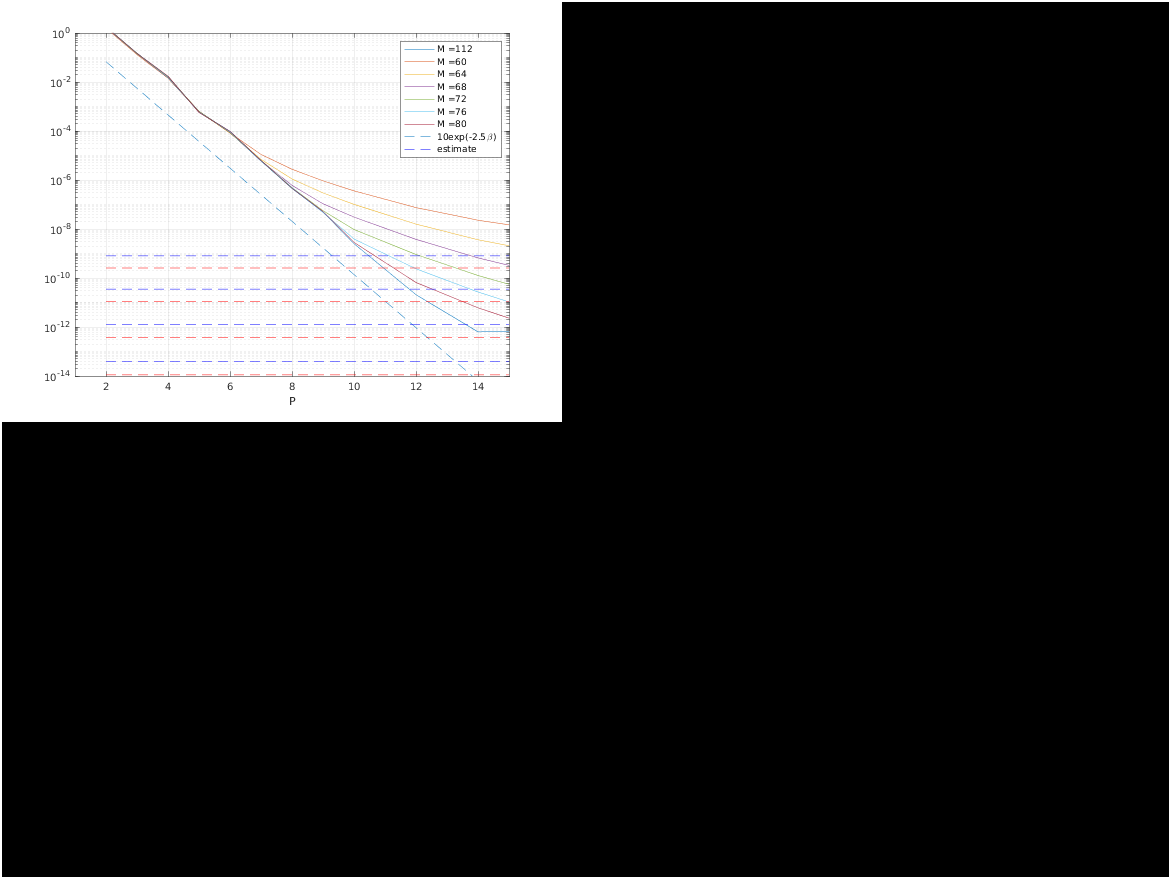
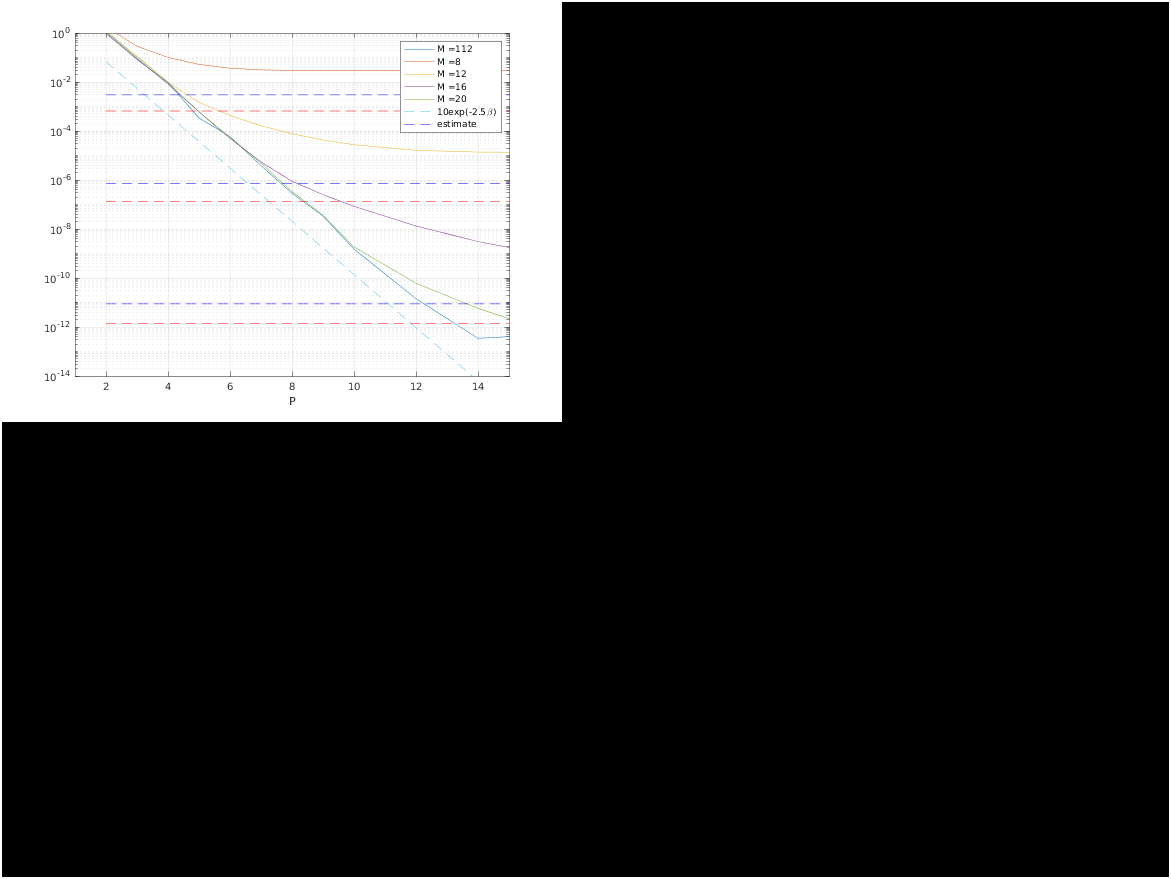
imgs

diff --git a/SE_Stokes_run/SE3P_Stokes/P_error.m b/SE_Stokes_run/SE3P_Stokes/P_error.m
@@ -17,7 +17,7 @@ opt.box = box;
 
 M0 = 128; % Set M0=M/L, the restu * 1+ is automatic
 opt.M = M0*[1,1,1];
-opt.xi = 20;
+opt.xi = 5;
 opt.betaP = 2.5;
 opt.c = sqrt(0.91);
 %opt.window = 'kaiser_exact';
@@ -45,7 +45,7 @@ end
 %ref = SE3P_Stokes(1:N,x,f,opt);
 rms_ref = rmse(ref);
 %% Compare solutions with changing P
-MM = 60:4:80;
+MM = 8:4:20;
 str = {};
 est_old = @(M,xi,L,f) sqrt(f)*(xi^3*L^2/(pi^4*(M/2)^(3/2)))*exp(-(pi*(M/2)/(xi*L))^2);
 %est = @(M,xi,L,f) sqrt(f)*(4/(3^(1/4)*L*pi))*exp(-(pi*M/(xi*L*2))^2);
